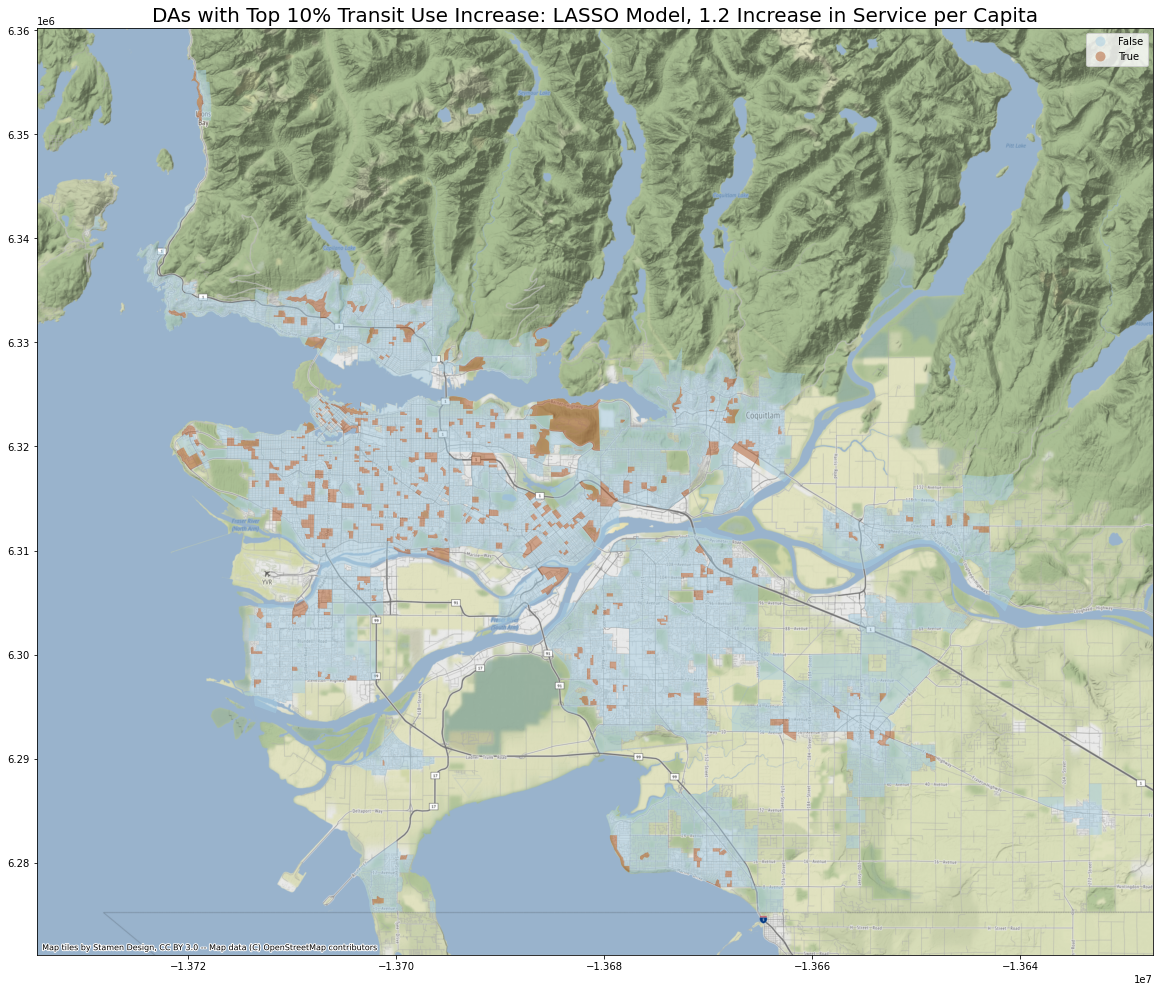
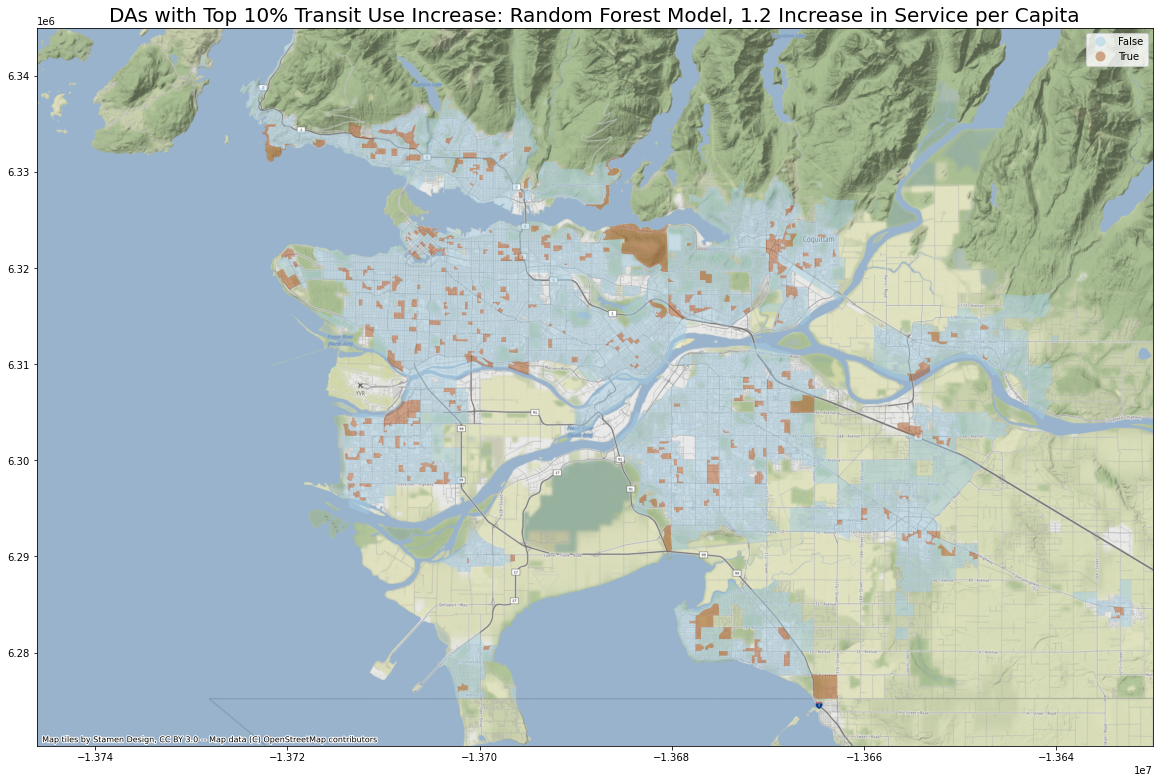
Modify maps and header picture

diff --git a/index.html b/index.html
@@ -2,5 +2,5 @@
 layout: home
 author_profile: true
 header:
-  image: "/images/deans_fellow.jpg"
+  image: "/images/header_picture.png"
 ---

diff --git a/_posts/2020-12-07-Vancouver_transit3.md b/_posts/2020-12-07-Vancouver_transit3.md
@@ -9,7 +9,7 @@ excerpt: "GIS, Python, transit"
 
 # Remove extreme observations
 
-Now that we have tabular data of demographic characters, transit access and transit usage down to the DA level, I will pre-process the data so that it is ready to be put into machine learning algorithms. Firstly, columns with all NA data are removed (in fact there are two such columns). Then, I remove rows that have irregular, or extreme values for important variables, as shown in the following table:
+Now that we have tabular data of demographic characters, transit access and transit usage down to the DA level, I will pre-process the data so that it is ready to be put into machine learning algorithms. Firstly, columns with all NA data are removed (in fact there are two such columns). Then, I will remove rows that have irregular, or extreme values for important variables, as shown in the following table:
 
 | Removal Criteria                                                    | Number of DAs removed     |
 |---------------------------------------------------------------------|---------------------------|
@@ -21,13 +21,13 @@ Now that we have tabular data of demographic characters, transit access and tran
 |DAs without transit service or stops in the neighborhood area        |                        49 |
 |DAs whose proportions of residents using transit are invalid (NAs)   |                         2 |
 
-The following map shows in brown color DAs that have been removed from our next steps of analyses. 
+The following map shows in brown DAs that have been removed from our next steps of analyses. 
 
 <img src="{{ site.url }}{{ site.baseurl }}/images/Vancouver_transit3/plots/DA_removed.png" alt="Map: DA removed for analyses">
 
 # Feature engineering
 
-Most explanatory variables of this study come from the 2016 census, except for two, namely the number of transit services in the neighborhood area per person, and the number of transit stops in the neighborhood area per person, which are from the GTFS Data. I have also calculated some proportional relationships between census variables and added them to our analyses, and removed some variables that can confound our analyses. 
+Most explanatory variables of this study come from the 2016 census, except for two, namely the number of transit services in the neighborhood area per person, and the number of transit stops in the neighborhood area per person, which are from the GTFS Data. I have also calculated some proportional relationships between census variables and added them to our analyses, and removed some confounding variables. 
 
 ## Create proportional variables
 
@@ -64,7 +64,7 @@ The following chart also explains types of numeric variables.
 
 ## Remove confounding variables
 
-I gave also removed variables that sit on the causal line from access to transit to proportion of transit use. Such variables, theoretically, are impacted by the access to public transportation, and can in turn impact the use of public transportation. Confounding variables include:
+I have also removed variables that sit on the causal chain from access to transit to proportion of transit use. Such variables, theoretically, are impacted by the access to public transportation, and can in turn impact the use of public transportation. Confounding variables include:
 
  - Mode of Commuting
  - Duration of Commuting 
@@ -78,7 +78,7 @@ There are 2544 observations in the train split and 636 observations in the test 
 
 ## Preliminary analyses
 
-Before stepping into modeling, I did some quick sanity check on the correlation between access to, and public usage of transit in GVA. The two plots below show that their relationships seem to be positive, which is expected. In the 
+Before stepping into modeling, I did some quick sanity check on the correlation between access to, and public usage of, transit in GVA. The two plots below show that their relationships seem to be positive, which is expected. 
 
 <img src="{{ site.url }}{{ site.baseurl }}/images/Vancouver_transit3/plots/service_PC_prop_public.png" alt="Density plot: service per capita and public transit proportion">
 
@@ -91,6 +91,8 @@ Before stepping into modeling, I did some quick sanity check on the correlation 
 I selected three models, namely (1) dummy regression, (2) LASSO, and (3) Random Forest regression. 
 
  - Dummy regression
+
+The dummy regression model has both training and testing R-squared close to zero, which is expected. 
 
  - LASSO regression
  

diff --git a/_posts/2020-12-18-Vancouver_transit4.md b/_posts/2020-12-18-Vancouver_transit4.md
@@ -233,9 +233,9 @@ How should our analyses inform decision makers? In the last section of this proj
 
 The following two maps identify DAs with top 10% percentage point increase in transit use if number of transit services per person increases by about 1.2 in the neighborhood area.
 
-<img src="{{ site.url }}{{ site.baseurl }}/images/Vancouver_transit4/plots/output_75_0.png" alt="Map: LASSO Scenario 1">
+<img src="{{ site.url }}{{ site.baseurl }}/images/Vancouver_transit4/plots/output_74_0.png" alt="Map: LASSO Scenario 1">
 
-<img src="{{ site.url }}{{ site.baseurl }}/images/Vancouver_transit4/plots/output_76_0.png" alt="Map: Random Forest Scenario 1">
+<img src="{{ site.url }}{{ site.baseurl }}/images/Vancouver_transit4/plots/output_75_0.png" alt="Map: Random Forest Scenario 1">
 
 Are our predictions of increase in transit use similar between the two models? I have calculated the Pearson correlation coefficient between two sets of predictions, which stands at 0.768. This result is satisfactory.
 
@@ -243,9 +243,9 @@ Are our predictions of increase in transit use similar between the two models? I
 
 The following two maps identify DAs with top 10% percentage point increase in transit use if number of transit services per person increases by 10 percent of the current value, in the neighborhood area.
 
-<img src="{{ site.url }}{{ site.baseurl }}/images/Vancouver_transit4/plots/output_81_0.png" alt="Map: LASSO Scenario 2">
+<img src="{{ site.url }}{{ site.baseurl }}/images/Vancouver_transit4/plots/output_80_0.png" alt="Map: LASSO Scenario 2">
 
-<img src="{{ site.url }}{{ site.baseurl }}/images/Vancouver_transit4/plots/output_82_0.png" alt="Map: Random Forest Scenario 2">
+<img src="{{ site.url }}{{ site.baseurl }}/images/Vancouver_transit4/plots/output_81_0.png" alt="Map: Random Forest Scenario 2">
 
 The two models' predictions, under scenario 2, are also quite similar. I have calculated the Pearson correlation coefficient between two sets of predictions, which stands at 0.767.
 
